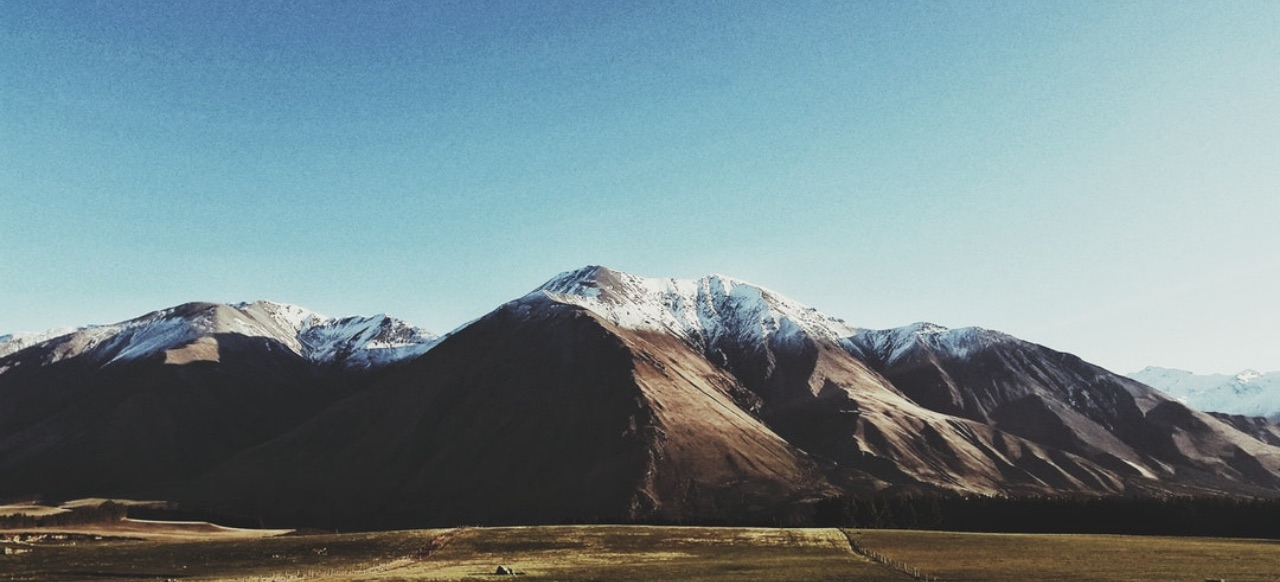
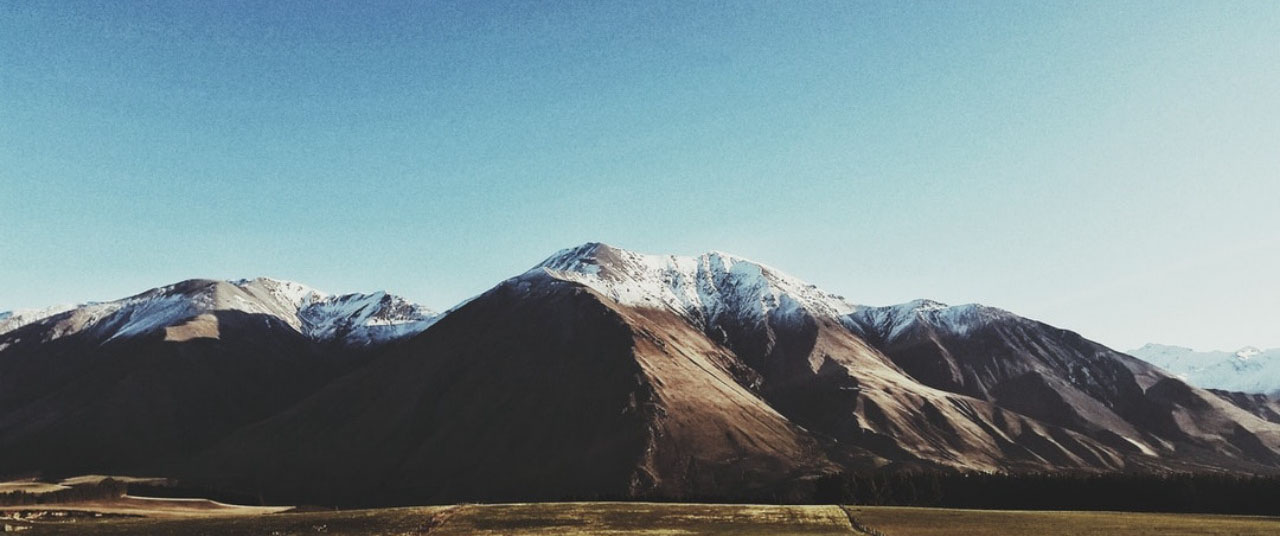
better background dimentions

Changed region(s): [[0.0, 0.4478, 1.0, 1.0], [0.0, 0.5075, 0.375, 0.6567]]

diff --git a/src/styles/backgrounds.scss b/src/styles/backgrounds.scss
@@ -23,7 +23,7 @@
         background-position: center;
         background-size: cover;
         background-repeat: no-repeat;
-        height: 580px;
+        height: 430px;
         width: 100vw;
         position: absolute;
         left: 50%;
@@ -31,7 +31,7 @@
         margin-left: -50vw;
         margin-right: -50vw;
         z-index: -1;
-        transform: translateY(-580px);
+        transform: translateY(-430px);
         background-image: linear-gradient(
             to bottom, 
             rgba(10,10,10,1) 0%,

diff --git a/src/templates/video-categories/america.js b/src/templates/video-categories/america.js
@@ -11,8 +11,7 @@ const America = (props) => {
     const isLast = currentPage === numPages
     const prevPage = currentPage - 1 === 1 ? '/category/am' : `/category/am/${currentPage - 1}`
     const nextPage = `/category/am/${currentPage + 1}`
-
-    
+  
     return(
 <Layout>
   <NavCategories />

diff --git a/src/templates/video-categories/poland.js b/src/templates/video-categories/poland.js
@@ -10,6 +10,7 @@ const Poland = (props) => {
     const isLast = currentPage === numPages
     const prevPage = currentPage - 1 === 1 ? '/category/pl' : `/category/pl/${currentPage - 1}`
     const nextPage = `/category/pl/${currentPage + 1}`
+    
     return(
 <Layout>
   <NavCategories />

diff --git a/src/pages/404.js b/src/pages/404.js
@@ -1,5 +1,4 @@
 import React from "react"
-
 import Layout from "../components/layout"
 
 
